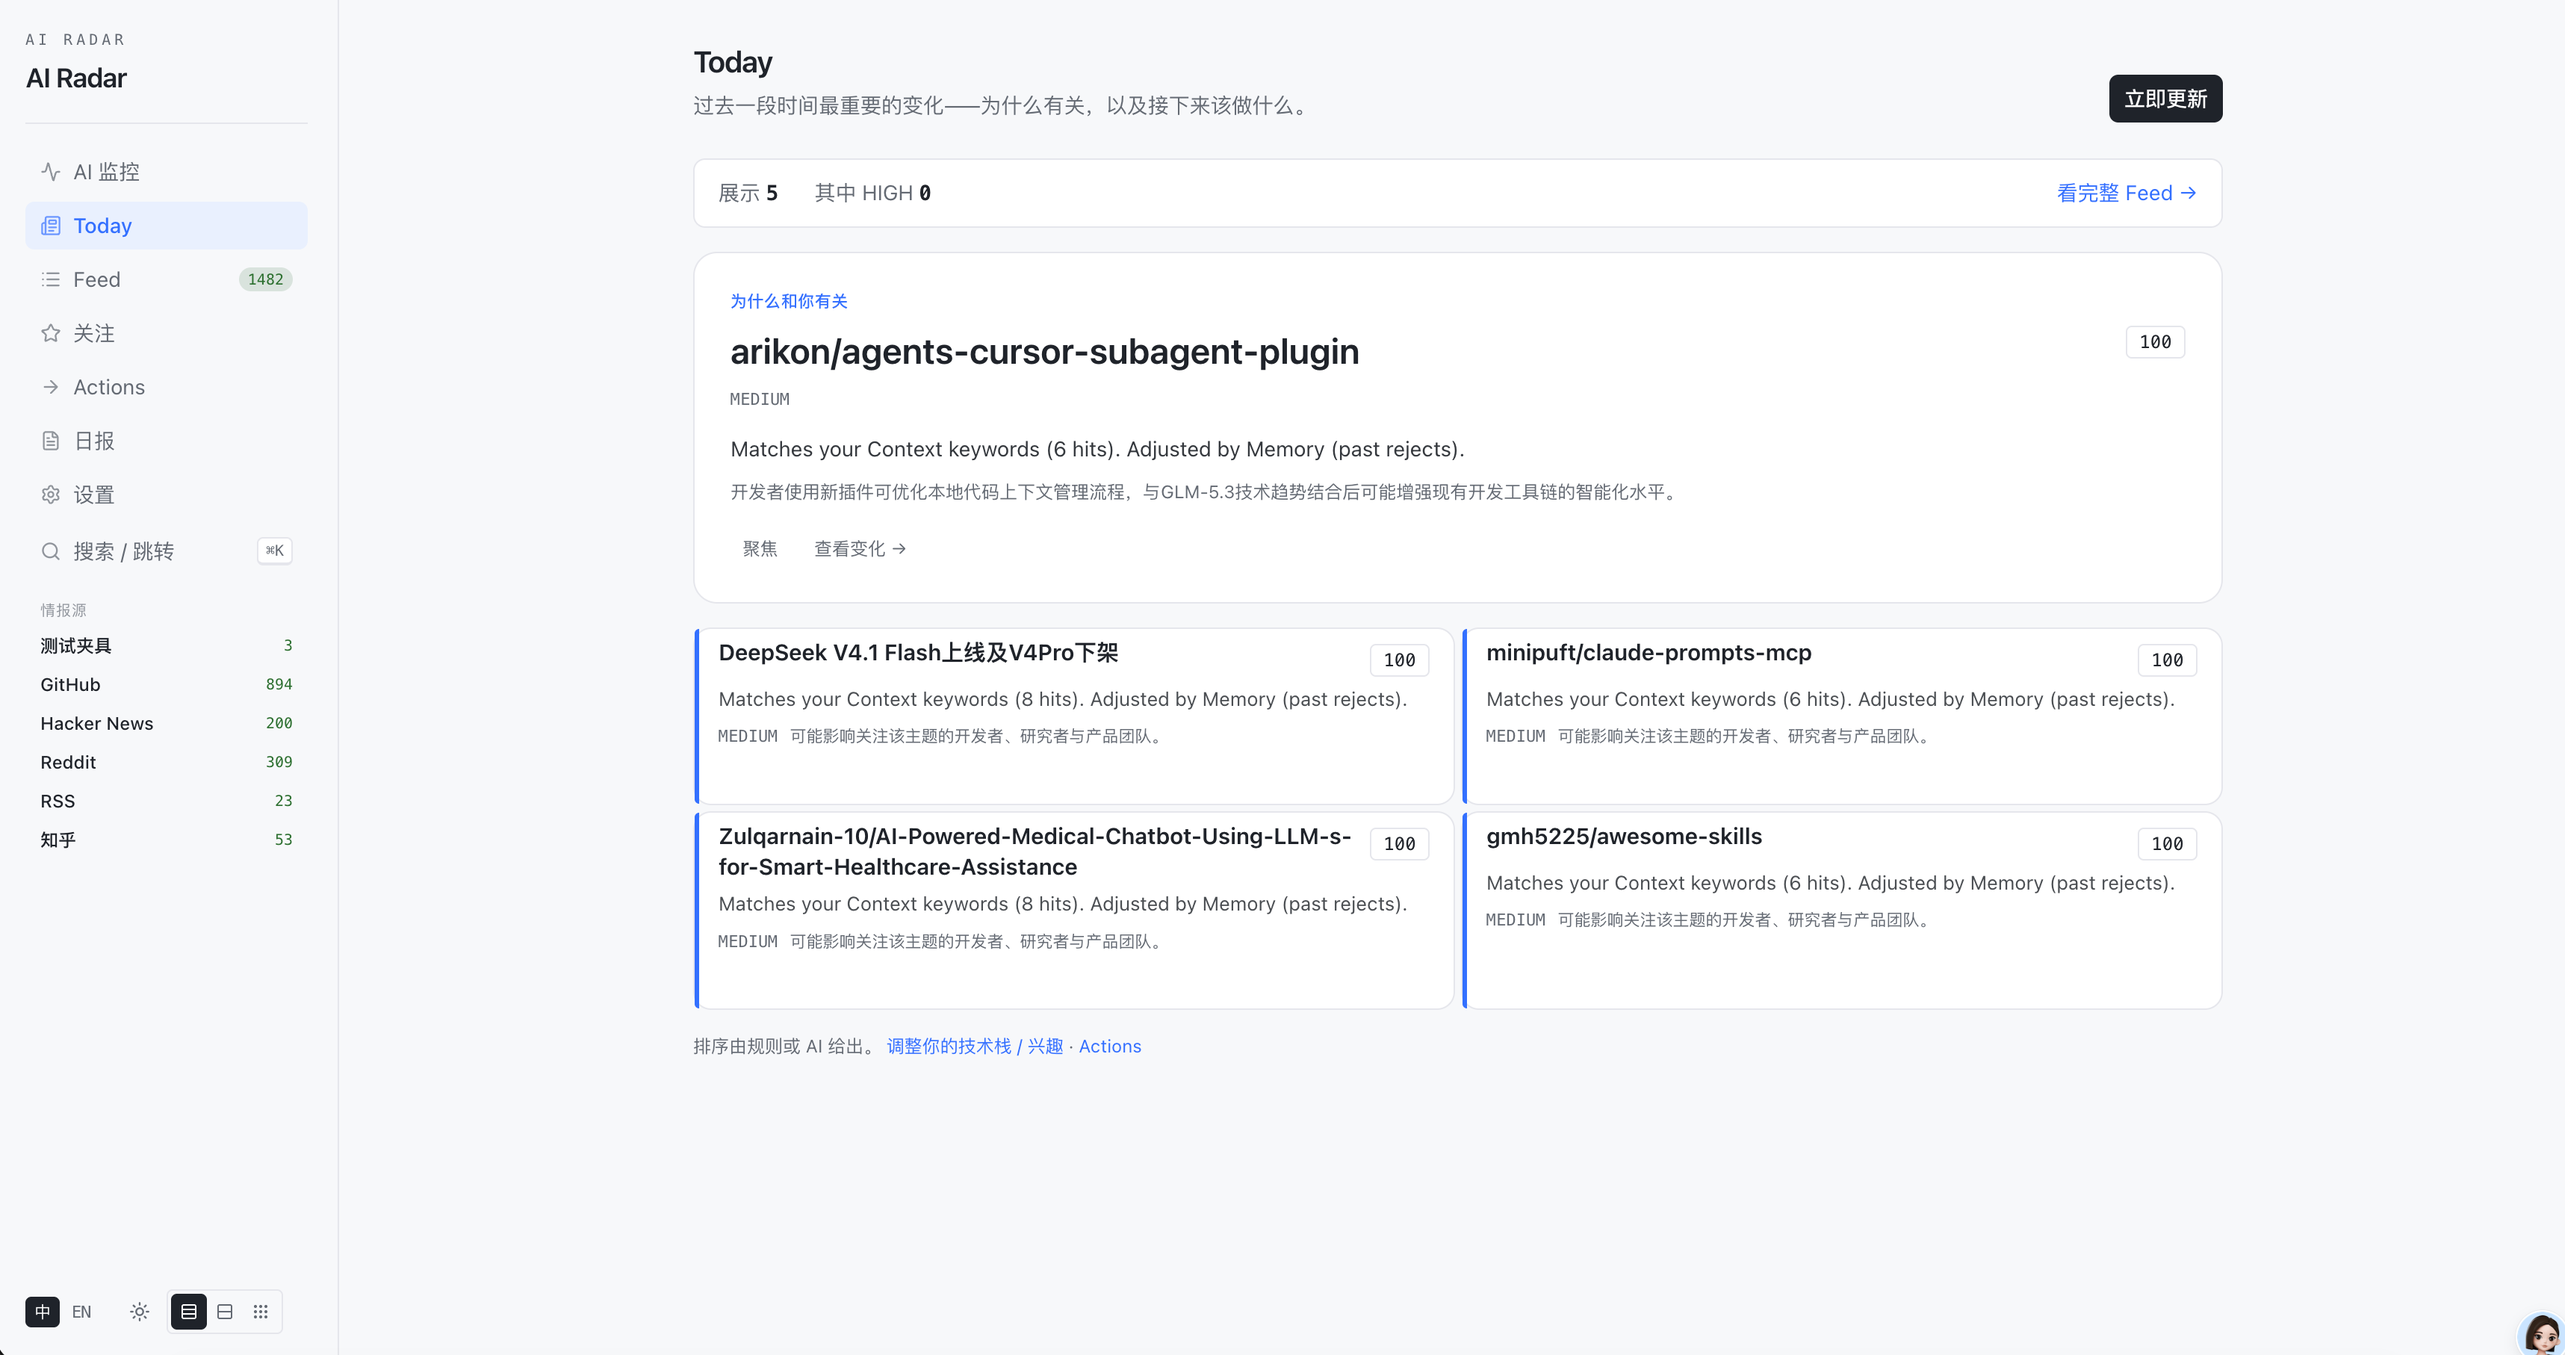
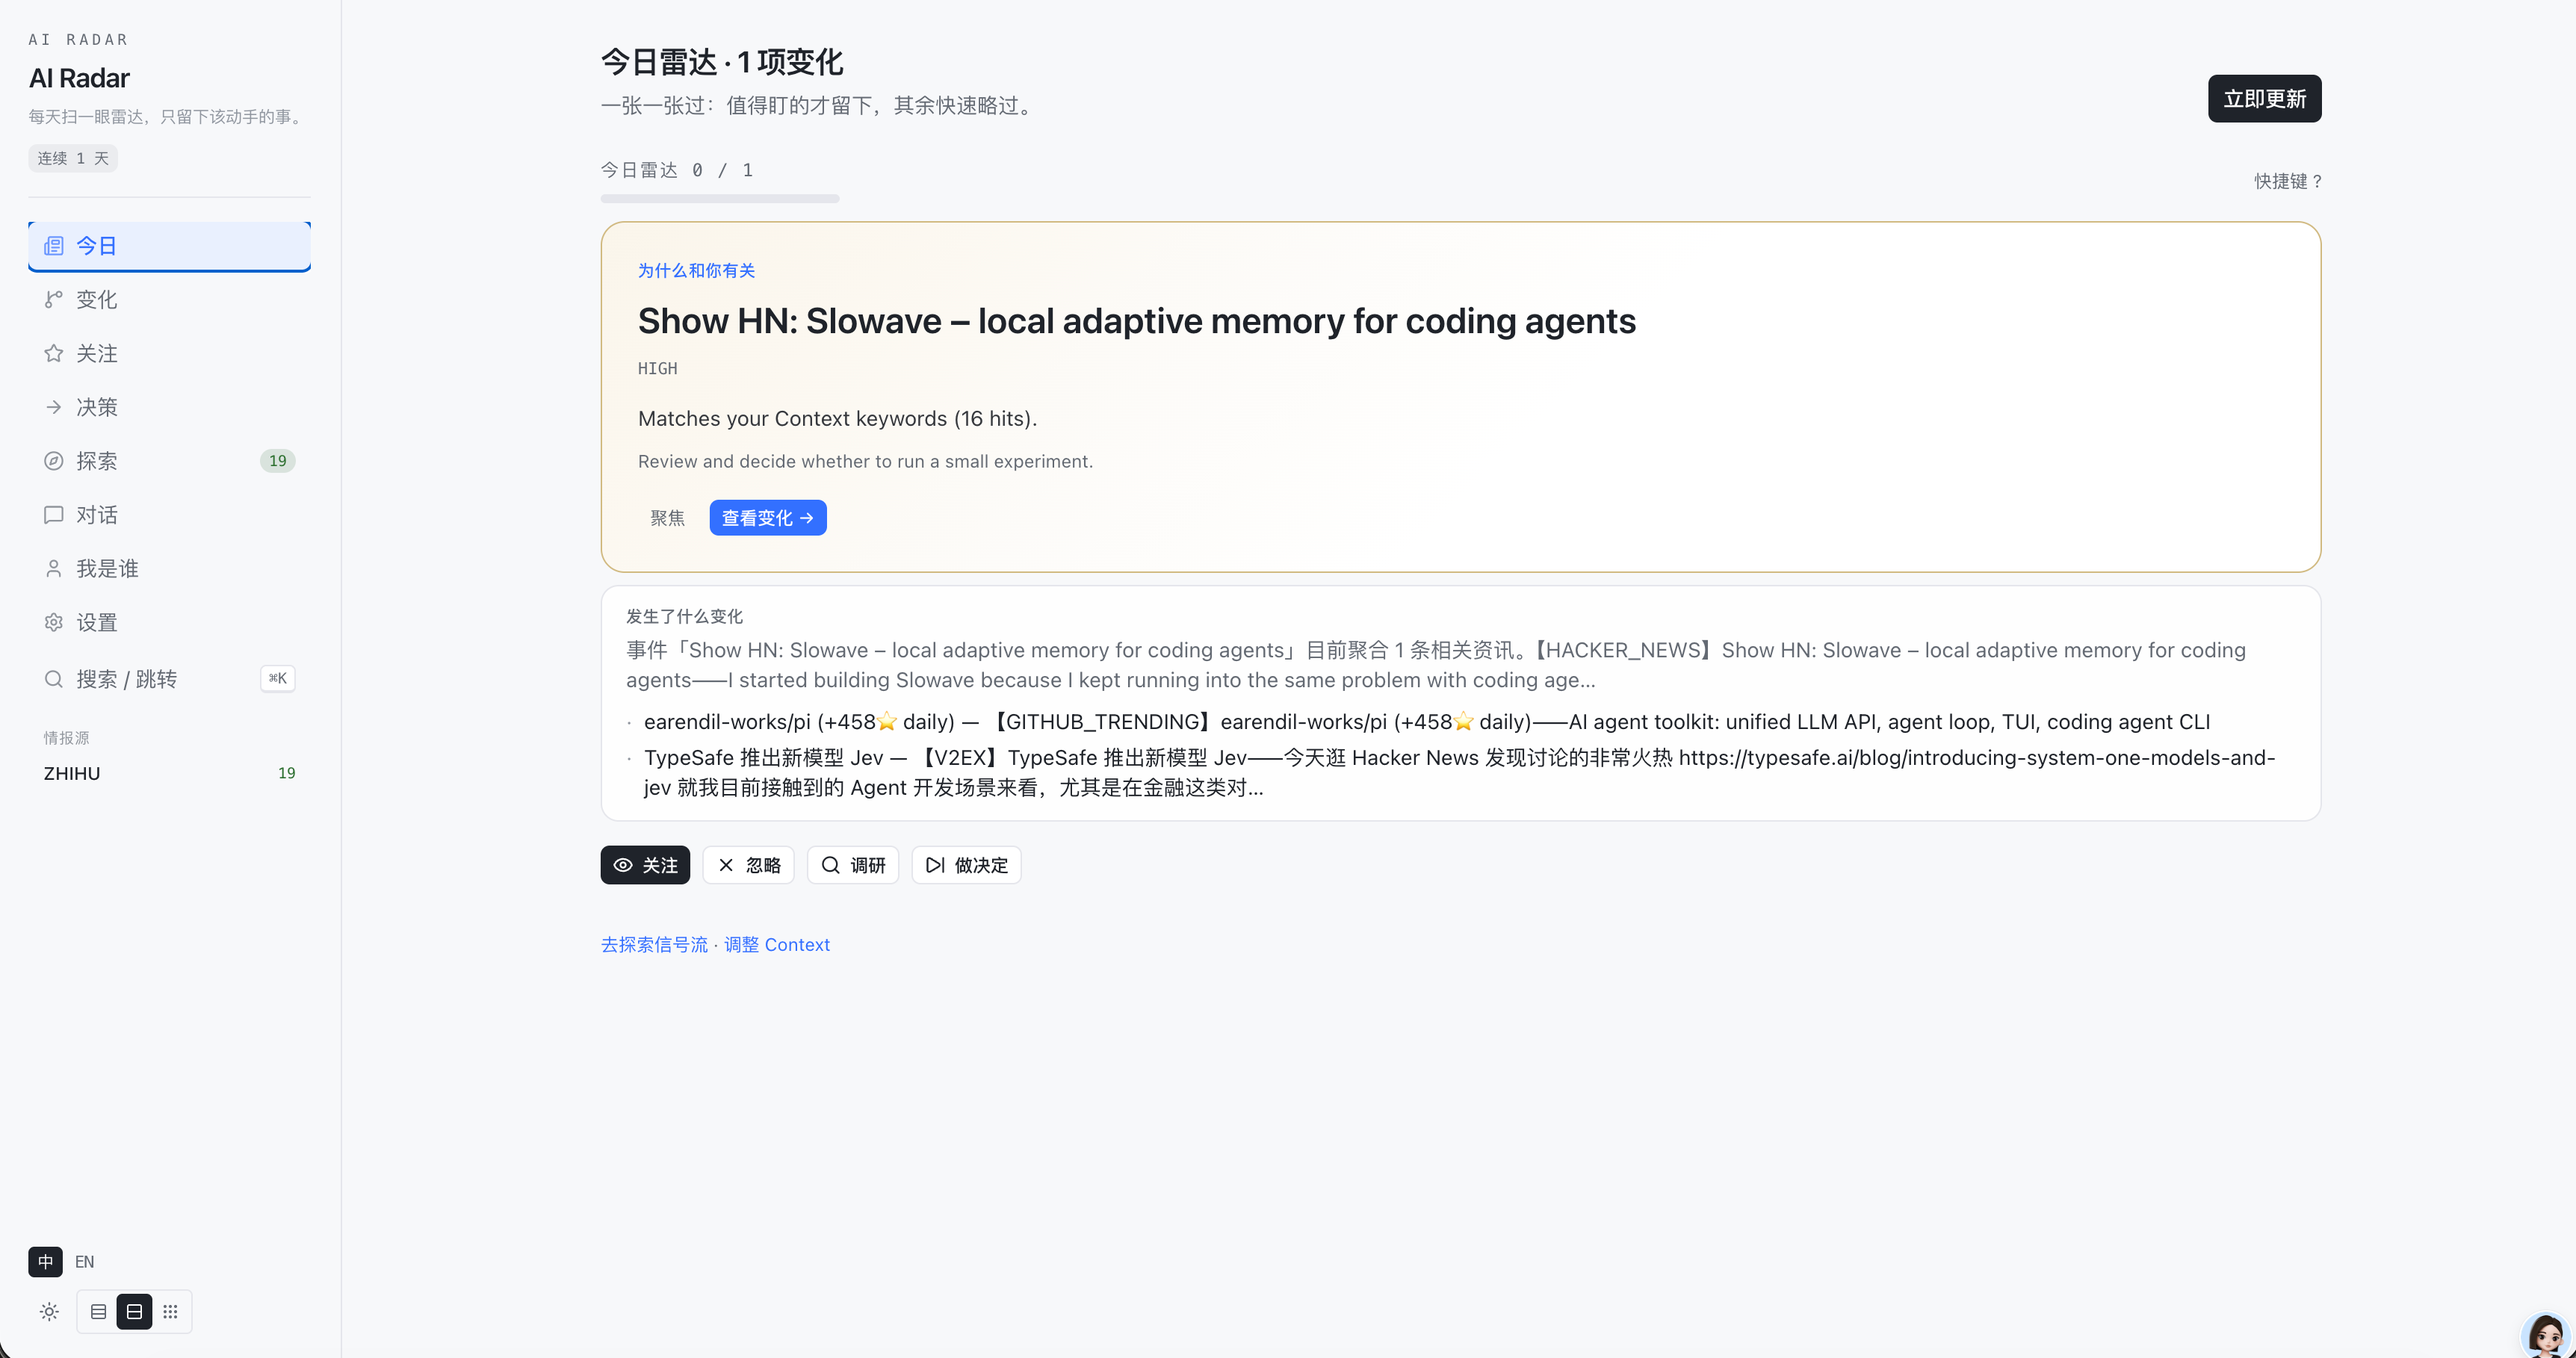
更新readme

diff --git a/README.md b/README.md
@@ -10,7 +10,7 @@ English | [中文](README.zh.md)
 ### Your personal AI intelligence system.
 
 ```
-Your Context → Signals → Score & Summarize → Impact → Actions
+Your Context → Signals → Score & Summarize → Today Deck → Decide
 ```
 
 Know what changed. Know why it matters. Know what to do.
@@ -25,16 +25,16 @@ Know what changed. Know why it matters. Know what to do.
 
 ### Why AI Radar?
 
-Most AI news is noise. AI Radar filters that noise against your context and surfaces only changes worth your attention — then tells you what to do about them.
+Most AI news is noise. AI Radar filters that noise against your context and surfaces only changes worth your attention — then helps you decide what to do.
 
 - ✓ **Personal Context** — Profile, projects, and stack so relevance is about *you*
 - ✓ **Primary language** — Summaries in zh/en via LLM; English titles localized with **Argos Translate** (offline sidecar)
-- ✓ **Live Feed** — One-sentence AI summary per item; items appear as soon as they are analyzed
+- ✓ **Today Radar Deck** — Up to three major changes a day; **Watch**, **Dismiss**, or **Decide** one card at a time
+- ✓ **Explore** — Full signal browse with one-sentence AI summaries (legacy Feed lives here)
 - ✓ **Like / dislike keywords** — Save or mark Not interested to teach preference phrases
-- ✓ **Change Detection** — Important external shifts, not an endless raw feed
-- ✓ **Impact Analysis** — Why a change matters for your work, in plain language
-- ✓ **Recommended Actions** — Checklist-style next steps; saving can trigger an action suggestion
-- ✓ **AI Monitor** — Queue progress plus streaming I/O for local Ollama
+- ✓ **Changes & Decisions** — Why a shift matters in plain language, plus decisions to revisit
+- ✓ **Radar Chat** — Multi-turn chat with your model; seed from a change via `?changeId=`
+- ✓ **AI Monitor** — Queue progress and streaming I/O under **Settings → System**
 
 ---
 
@@ -44,15 +44,15 @@ Most AI news is noise. AI Radar filters that noise against your context and surf
 
 - **What changed** — What truly mattered in the AI world today?
 - **Why care** — Why does this matter for *your* projects and stack?
-- **What to do** — What should you do next?
+- **What to do** — Watch, dismiss, or decide — then revisit when needed.
 
 **Demo story**
 
-1. Open Settings / Context and describe your role, projects, and tech stack; set your **primary language** (Chinese or English).
-2. Run a fetch — items appear in the Feed **as each one is scored and summarized** (no need to wait for the whole job).
-3. Read the one-line AI summary; mark **Not interested** or **Save** so Radar learns like/dislike keywords.
-4. Open a change for **Impact**, or check **Actions** for next steps (saving an item can also trigger an action suggestion).
-5. Watch the **AI Monitor** for queue progress and live Ollama token streaming.
+1. Open **Who I am** (Settings / Context) and describe your role, projects, and tech stack; set your **primary language** (Chinese or English).
+2. Import a source pack if needed, then **Update once** — fetch scores and summarizes signals, then recomputes impact.
+3. Clear the **Today** Radar Deck one card at a time (**Watch** / **Dismiss** / **Decide**).
+4. Browse the full stream in **Explore**; open a change for evidence, or jump into **Radar Chat** from a change.
+5. Check **Settings → System** for queue progress and live Ollama token streaming.
 
 ---
 

diff --git a/README.zh.md b/README.zh.md
@@ -10,7 +10,7 @@
 ### 你的个人 AI 决策系统。
 
 ```
-你的 Context → 信号 → 逐条评分与摘要 → 影响 → 行动
+你的 Context → 信号 → 逐条评分与摘要 → Today Deck → 决策
 ```
 
 知道变了什么。知道为何重要。知道下一步做什么。
@@ -25,16 +25,16 @@
 
 ### 为什么选择 AI Radar？
 
-大多数 AI 资讯是噪音。AI Radar 用你的上下文过滤噪音，只留下值得关注的变化，并告诉你该怎么做。
+大多数 AI 资讯是噪音。AI Radar 用你的上下文过滤噪音，只留下值得关注的变化，并帮你决定下一步。
 
 - ✓ **个人 Context** — 画像、项目与技术栈，相关性围绕「你」
 - ✓ **主语言** — 摘要由 LLM 按中文 / 英文生成；英文标题经本地 **Argos Translate** 侧车译为中文
-- ✓ **实时 Feed** — 每条一句话 AI 总结；分析完一条就能在列表里看到一条
+- ✓ **Today Radar Deck** — 每天最多约三张重大变化；逐张 **关注 / 忽略 / 决策**
+- ✓ **Explore** — 全量信号浏览与一句话 AI 总结（原 Feed 在此）
 - ✓ **喜欢 / 不喜欢关键词** — 收藏或不感兴趣会写入偏好短语
-- ✓ **变化发现** — 重要外部变化，而不是无尽原始信息流
-- ✓ **影响分析** — 用白话说明这件事对你的工作意味着什么
-- ✓ **推荐行动** — 待办式 checklist；收藏后可由 LLM 判断是否值得生成下一步
-- ✓ **AI 监控** — 队列进度 + 本地 Ollama 流式 I/O
+- ✓ **Changes & Decisions** — 用白话说明为何重要，并跟进待复盘的决策
+- ✓ **Radar Chat** — 与已配置模型多轮对话；可从变化详情带 `?changeId=` 切入
+- ✓ **AI 监控** — 队列进度与流式 I/O，入口在 **设置 → 系统**
 
 ---
 
@@ -44,15 +44,15 @@
 
 - **变了什么** — 今天 AI 世界真正重要的变化是什么？
 - **为何关心** — 这件事为什么和你的项目 / 技术栈有关？
-- **做什么** — 你下一步应该做什么？
+- **做什么** — 关注、忽略或决策 — 需要时再复盘。
 
 **完整路径**
 
-1. 在设置 / Context 里填写角色、项目与技术栈，并选择**主语言**（中文或英文）。
-2. 触发一次抓取 — Feed 会在**每条新闻评分并摘要完成后立刻出现**，无需等整批结束。
-3. 阅读 AI 一句话总结；点「不感兴趣」或「收藏」，系统会沉淀喜欢 / 不喜欢关键词。
-4. 打开变化查看 **Impact**，或在 **Actions** 里跟进下一步（收藏也可能触发行动建议）。
-5. 在 **AI 监控** 查看分析队列进度，以及本地 Ollama 的流式输入输出。
+1. 打开 **我是谁**（设置 / Context），填写角色、项目与技术栈，并选择**主语言**（中文或英文）。
+2. 如需则导入源 Pack，然后 **立即更新** — 抓取会评分与摘要，并重算影响。
+3. 在 **今日** Radar Deck 上逐张处理（**关注 / 忽略 / 决策**）。
+4. 需要时去 **Explore** 扫全量；打开变化看证据，或从变化进入 **Radar Chat**。
+5. 在 **设置 → 系统** 查看分析队列进度，以及本地 Ollama 的流式输入输出。
 
 ---
 
